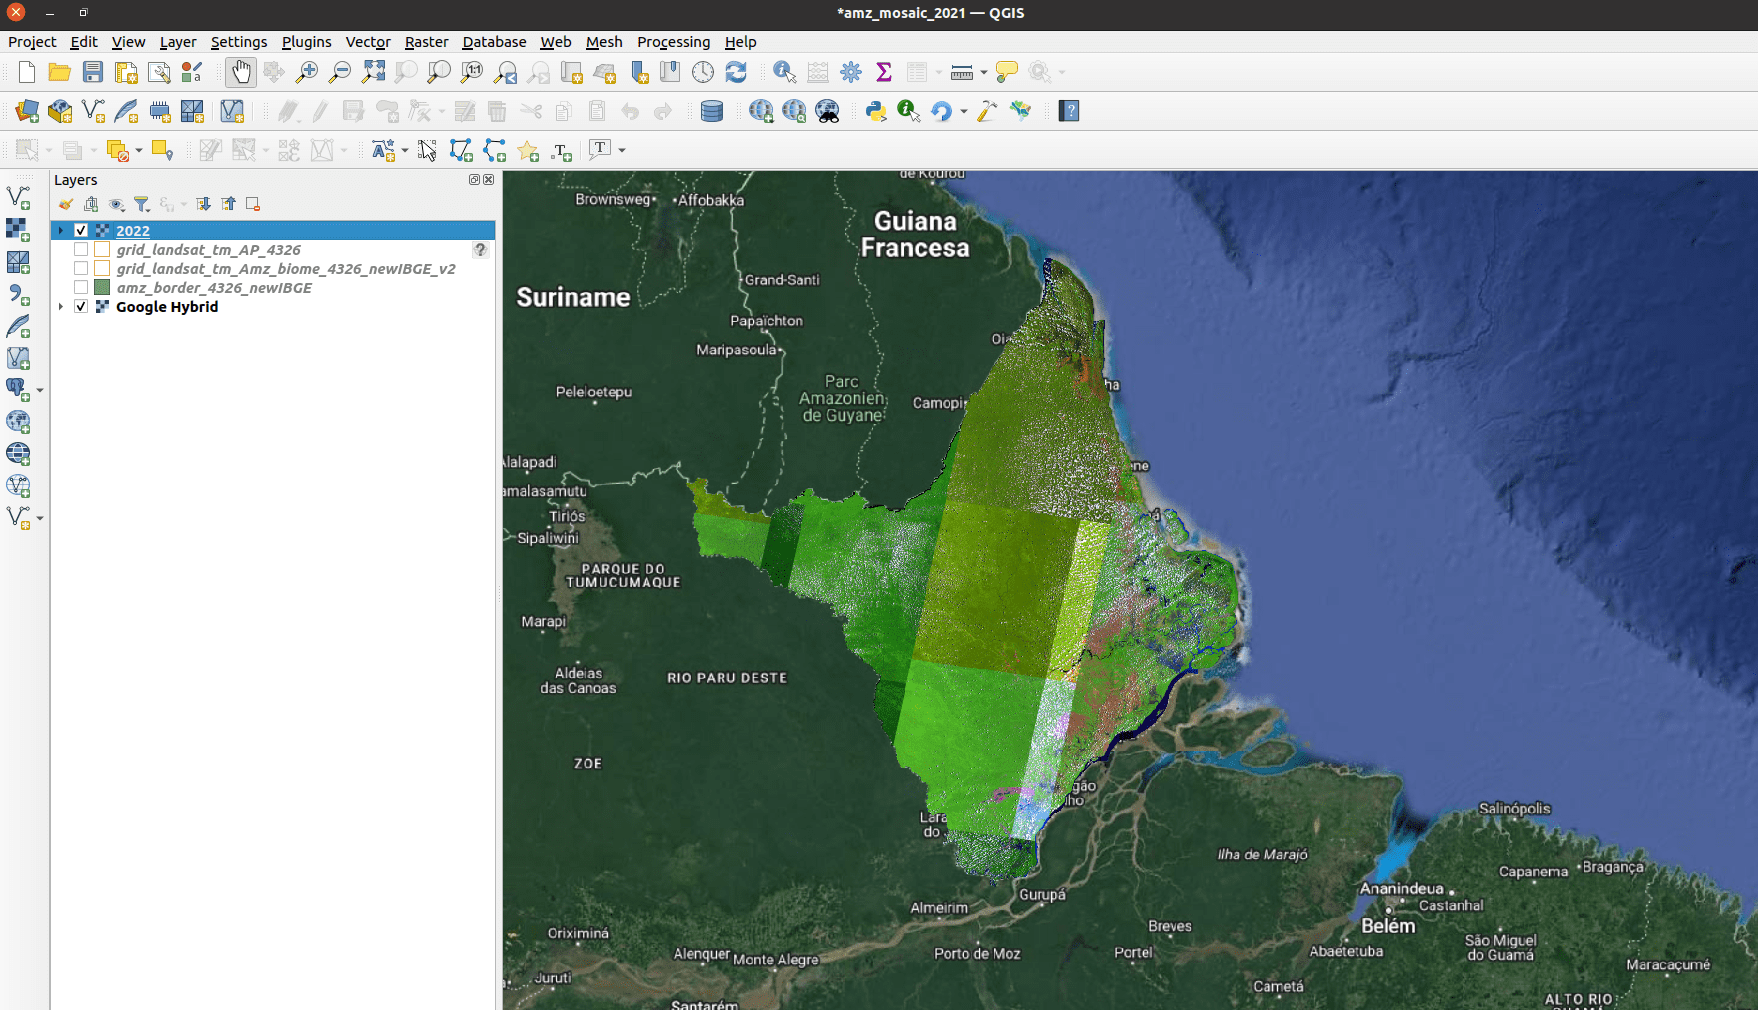
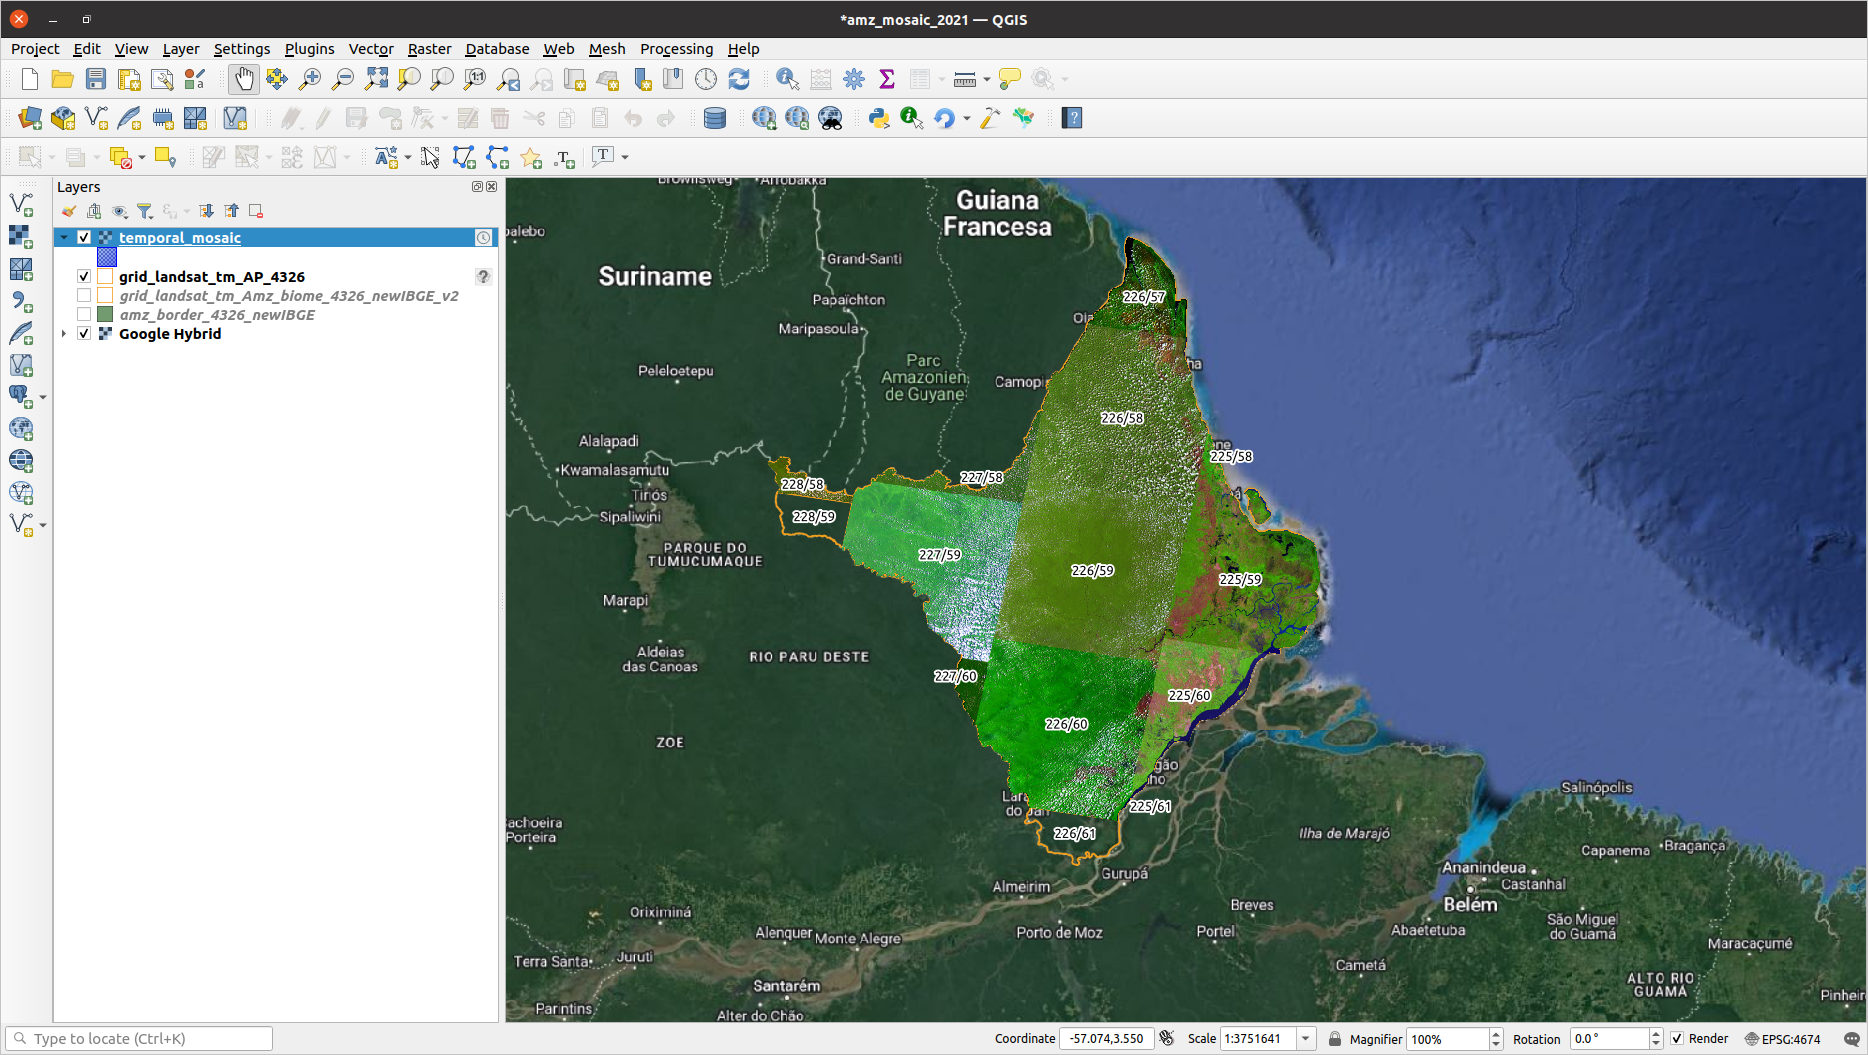
Update 2023-05-04. Add Tutorial of how create a temporal mosaic in Geoserver

diff --git a/TUTORIAL.rst b/TUTORIAL.rst
@@ -1,0 +1,249 @@
+""""""""""""""""""""""""""""""""""""""""""""""""""""""""""""""
+How create a temporal mosaic in Geoserver
+""""""""""""""""""""""""""""""""""""""""""""""""""""""""""""""
++++++++++++++++++++++++++++++++++++++++++++++++++++++++++++
+Tutorial to create temporal mosaic using Image Pyramid
++++++++++++++++++++++++++++++++++++++++++++++++++++++++++++
+
+.. contents:: Overview
+   :depth: 3
+
+============
+Database
+============
+
+First, create a database called "geoserver_mosaic" and add spatial extension PostGIS.
+
+.. image:: img/database.png
+  :width: 700
+  :alt: Database
+
+.. image:: img/database_config.png
+  :width: 700
+  :alt: Database
+
+====================
+Rasters processing
+====================
+
+Download all raster files, in GeoTIFF format, to one or more years and place them in a folder identified by name_year. Then for each name_year run the shell script, located in script folder, to generate the retiles, that is a set of tiles and/or build tiled pyramid levels.
+Run the script in the same folder with images. This process will create a log file in this folder with all outputs of the execution, as can see in the pictures of the folders. Besides a set of auxiliary files. The main folder will be with the year in its name.
+This folder will be input in the Geoserver to process with Image Pyramid. For example, with a small area, Amapá state, Brazil to the 2022 year. As result, in the folder will be generated a set of auxiliary files, such as, "temp*" folders, "mosaic_*" files, and a log file with all output of the script. Repeat this process for each name_year folder. The main file generated is the folder named by "year" folder. Examples show AP_2020 and AP_2022 folders and results after the shell script run.
+
+.. image:: img/folder_year3.png
+  :width: 700
+  :alt: folder
+
+.. image:: img/folder_year1.png
+  :width: 700
+  :alt: folder
+
+.. image:: img/folder_year2.png
+  :width: 700
+  :alt: folder
+
+============
+Geoserver
+============
+
+After copying the "year" folder to Geoserver repository in the localhost, and assuming the GeoServer image pyramid plug-in is already installed, it’s possible to create the coverage store by pointing at the directory containing the pyramid.
+
+Create a folder named "mosaics_raster" and move all "year" folder into. After this, for each "year" folder create new stores with Image Pyramid plugin in Geoserver with year as name of the layer;
+
+.. image:: img/geoserver_layer1.png
+  :width: 700
+  :alt: folder
+
+.. image:: img/geoserver_layer2.png
+  :width: 700
+  :alt: folder
+
+--------------------------------------------------------------------
+For each "year" folder create a Image Pyramid
+--------------------------------------------------------------------
+
+In Geoserver, for each "year" folder create a new store using Image Pyramid Plugin and add raster data source. After this, edit layer information and view the preview. Example with "2020" folder.
+
+.. image:: img/geoserver_addlayer1.png
+  :width: 700
+  :alt: Geoserver
+
+.. image:: img/geoserver_addlayer2.png
+  :width: 700
+  :alt: Geoserver
+
+.. image:: img/geoserver_addlayer3.png
+  :width: 700
+  :alt: Geoserver
+
+.. image:: img/geoserver_addlayer4.png
+  :width: 700
+  :alt: Geoserver
+
+.. image:: img/geoserver_addlayer5.png
+  :width: 700
+  :alt: Geoserver
+
+.. image:: img/geoserver_addlayer6.png
+  :width: 700
+  :alt: Geoserver
+
+.. image:: img/geoserver_addlayer7.png
+  :width: 700
+  :alt: Geoserver
+
+.. image:: img/geoserver_addlayer8.png
+  :width: 700
+  :alt: Geoserver
+
+.. image:: img/geoserver_addlayer9.png
+  :width: 700
+  :alt: Geoserver
+
+--------------------------------------------------------------------
+Copy files from "mosaics_raster" to "temporal_mosaic" folder
+--------------------------------------------------------------------
+
+After creating an Image Pyramid in Geoserver for each year. Creates a new directory named, for instance, "temporal_mosaic" and copy from  "mosaics_raster" all "year" folders into it, from the into them. To do this, use the  "1.copy_mosaic_each_level.sh" script with correct parameters. Before, apply the Linux chmod command to change the access permissions of files and directories to "mosaics_raster" directory and subdir: "chmod -R 777 mosaics_raster".
+
+.. image:: img/pyramid_files1.png
+  :width: 700
+  :alt: Geoserver
+
+.. image:: img/pyramid_files2.png
+  :width: 700
+  :alt: Geoserver
+
+.. image:: img/pyramid_files3.png
+  :width: 700
+  :alt: Geoserver
+
+--------------------------------------------------------------------
+Add .properties files into "temporal_mosaic" folder
+--------------------------------------------------------------------
+
+In this stage, copy the main three files to the "temporal_mosaic" folder, datastore.properties (change before with correct parameters, i.e., name database, port, pass, user, ...), indexer.properties and timeregex.properties. After this, run  "2.copy_properties_each_level.sh" script with the correct parameters, which will copy the three files for each subdirectories (0, 1, 2, 3, 4).  Figures show this process.
+
+.. image:: img/temporal_mosaic_folder1.png
+  :width: 700
+  :alt: Script
+
+.. image:: img/temporal_mosaic_folder2.png
+  :width: 700
+  :alt: Folder
+
+.. image:: img/temporal_mosaic_folder3.png
+  :width: 700
+  :alt: Script
+
+.. image:: img/temporal_mosaic_folder4.png
+  :width: 700
+  :alt: Folder
+
+====================================
+Geoserver temporal_mosaic
+====================================
+
+Finally, create new store with Image Pyramid plugin in Geoserver with "temporal_mosaic" as the name of the layer and the correct path. The figures below show this process.
+
+.. image:: img/temporal_mosaic_geo1.png
+  :width: 700
+  :alt: Geoserver
+
+.. image:: img/temporal_mosaic_geo2.png
+  :width: 700
+  :alt: Geoserver
+
+.. image:: img/temporal_mosaic_geo3.png
+  :width: 700
+  :alt: Geoserver
+
+.. image:: img/temporal_mosaic_geo4.png
+  :width: 700
+  :alt: Geoserver
+
+.. image:: img/temporal_mosaic_geo5.png
+  :width: 700
+  :alt: Geoserver
+
+.. image:: img/temporal_mosaic_geo6.png
+  :width: 700
+  :alt: Geoserver
+
+.. image:: img/temporal_mosaic_geo6a.png
+  :width: 700
+  :alt: Geoserver
+
+.. image:: img/temporal_mosaic_geo7.png
+  :width: 700
+  :alt: Geoserver
+
+.. image:: img/temporal_mosaic_geo8.png
+  :width: 700
+  :alt: Geoserver
+
+.. image:: img/temporal_mosaic_geo9.png
+  :width: 700
+  :alt: Geoserver
+
+.. image:: img/temporal_mosaic_geo10.png
+  :width: 700
+  :alt: Geoserver
+
+.. image:: img/temporal_mosaic_geo16.png
+  :width: 700
+  :alt: Geoserver
+
+.. image:: img/temporal_mosaic_geo17.png
+  :width: 700
+  :alt: Geoserver
+
+.. image:: img/temporal_mosaic_geo18.png
+  :width: 700
+  :alt: Geoserver
+
+.. image:: img/temporal_mosaic_geo19.png
+  :width: 700
+  :alt: Geoserver
+
+---------------------
+Check the Database
+---------------------
+
+Only to check, open the pgAdmin and check if the indexes table (0,1,2,3,4) were created in database "geoserver_mosaic" by Image Pyramid Geoserver, and see the temporal layers in the application.
+
+.. image:: img/temporal_mosaic_geo11.png
+  :width: 700
+  :alt: Geoserver
+
+.. image:: img/temporal_mosaic_geo12.png
+  :width: 700
+  :alt: Geoserver
+
+.. image:: img/temporal_mosaic_geo14.png
+  :width: 700
+  :alt: Geoserver
+
+.. image:: img/temporal_mosaic_geo15.png
+  :width: 700
+  :alt: Geoserver
+
+============
+QGIS
+============
+
+Then, open in QGIS as a WMS layer.
+
+.. image:: img/qgis_wms.png
+  :width: 700
+  :alt: QGIS
+
+.. image:: img/qgis_canvas.png
+  :width: 700
+  :alt: QGIS
+
+.. image:: img/qgis_time.png
+  :width: 700
+  :alt: QGIS
+
+

diff --git a/README.md b/README.md
@@ -49,18 +49,18 @@ user@machine:~/Downloads/images_cer/im_2010$ /home/user/Downloads/mosaics-prodes
 The scripts create intermediate folders and GeoTIFF files. By default, the folder named with "year" is used as input of Image Pyramid GeoServer, move this folder to the directory of GeoServer data. After script execution, the intermediate files and folders can be removed to the trash.
 
 
-# Geoserver
+# Geoserver with temporal mosaic
 
 An [Image Pyramid](https://docs.geoserver.org/latest/en/user/tutorials/imagepyramid/imagepyramid.html) is several layers of an image rendered at various image sizes, to be shown at different zoom levels.
 
-After copying the year_folder to Geoserver repository in the server, and assuming the GeoServer image pyramid plug-in is already installed, it’s possible to create the coverage store by pointing at the directory containing the pyramid.
+After copying the "year" folder to Geoserver repository in the server, and assuming the GeoServer image pyramid plug-in is already installed, it’s possible to create the coverage store by pointing at the directory containing the pyramid.
 
 In the case of set of image pyramids, one per year, it is necessary:
 - create a database called "geoserver_mosaic" in PostgreSQL with postgis extension;
-- create a folder named "mosaics_raster" and move all year_folder into. After this, for each year_folder create new stores with Image Pyramid plugin in Geoserver with year as names of the layer;
-- in the server folder, creates a new directory named, for instance, 'temporal_mosaic' and copy all year_folder into them, for this use the  "1.copy_mosaic_each_level.sh" script with correct parameters;
-- copy the main three files to the 'temporal_mosaic' folder and subdirectories (0, 1, 2, 3, 4): datastore.properties (change before with correct parameters, i.e., name database, port, pass, user, ...), indexer.properties and timeregex.properties, to do this use the  "2.copy_properties_each_level.sh" script with correct parameters;
-- finally, create new stores with Image Pyramid plugin in Geoserver with "temporal_mosaic" as the name of the layer and the correct path.
+- create a folder named "mosaics_raster" and move all "year" folder into. After this, for each "year" folder create new stores with Image Pyramid plugin in Geoserver with year as name of the layer;
+- in the server folder, creates a new directory named, for instance, 'temporal_mosaic' and copy all "year" folder into them, for this use the  "1.copy_mosaic_each_level.sh" script with correct parameters;
+- copy the main three files to the "temporal_mosaic" folder, datastore.properties (change before with correct parameters, i.e., name database, port, pass, user, ...), indexer.properties and timeregex.properties. After this, run  "2.copy_properties_each_level.sh" script with the correct parameters, which will copy the three files for each subdirectories (0, 1, 2, 3, 4);
+- finally, create new stores with Image Pyramid plugin in Geoserver with "temporal_mosaic" as the name of the layer and the correct path, and [edit layer](#geoserver-layers-web-interface).
 - open the pgAdmin and check if the indexes table (0,1,2,3,4) were created in database "geoserver_mosaic" by Image Pyramid Geoserver
 
 The output directory is look like this:
@@ -131,7 +131,7 @@ timeregex.properties
 regex=[0-9]{4}
 ```
 
-## Geoserver Layers - Web Interface
+## Geoserver Layers Web Interface
 
 In the Layers section of the web interface, you can view and edit existing layers, add (register) a new layer, or remove (unregister) a layer. The Layers View page displays the list of layers, and the Store and Workspace in which each layer is contained. The View page also displays the layer’s status and native SRS.
 
@@ -181,6 +181,11 @@ In geoserver - Layers / Edit Layer
         2022-01-01T00:00:00.000Z
         ```
 
+# Tutorial
+
+See [TUTORIAL.rst](TUTORIAL.rst)
+
+
 # Online Resource
 
 - [Image Pyramid](https://docs.geoserver.org/stable/en/user/tutorials/imagepyramid/imagepyramid.html)
@@ -193,8 +198,6 @@ In geoserver - Layers / Edit Layer
 
 Example configure database
 
-![Database](img/database.png)
-
 ![Database](img/database_config.png)
 
 <!-- <img src="img/database.png" alt="database" title="Database" style="display: inline-block; margin: 0 auto; max-width: 700px"> -->
@@ -203,32 +206,18 @@ Run the script in the same folder with images. This process will create a log fi
 
 ![Script](img/script_execution.png)
 
-![Folder](img/folder_status.png)
+![Folder](img/folder_year2.png)
 
 
 In Geoserver, add new store using Image Pyramid Plugin and add raster data source. After this, edit layer information and view the preview.
 
-![Geoserver](img/geoserver_add_store1.png)
+![Geoserver](img/geoserver_addlayer3.png)
 
-![Geoserver](img/geoserver_add_store2.png)
+![Geoserver](img/geoserver_addlayer7.png)
 
-![Geoserver](img/geoserver_add_store3.png)
-
-![Geoserver](img/geoserver_add_store4.png)
+![Geoserver](img/geoserver_addlayer9.png)
 
 Then, open in QGIS as a WMS layer.
 
 ![QGIS](img/qgis_wms.png)
-
-![QGIS](img/qgis_canvas.png)
-
-An example of the configuration of a temporal mosaic raster composed of a set of years.
-
-![QGIS](img/temp_mosaic1.png)
-
-![QGIS](img/temp_mosaic2.png)
-
-![QGIS](img/temp_mosaic3.png)
-
-![QGIS](img/temp_mosaic4.png)
 
